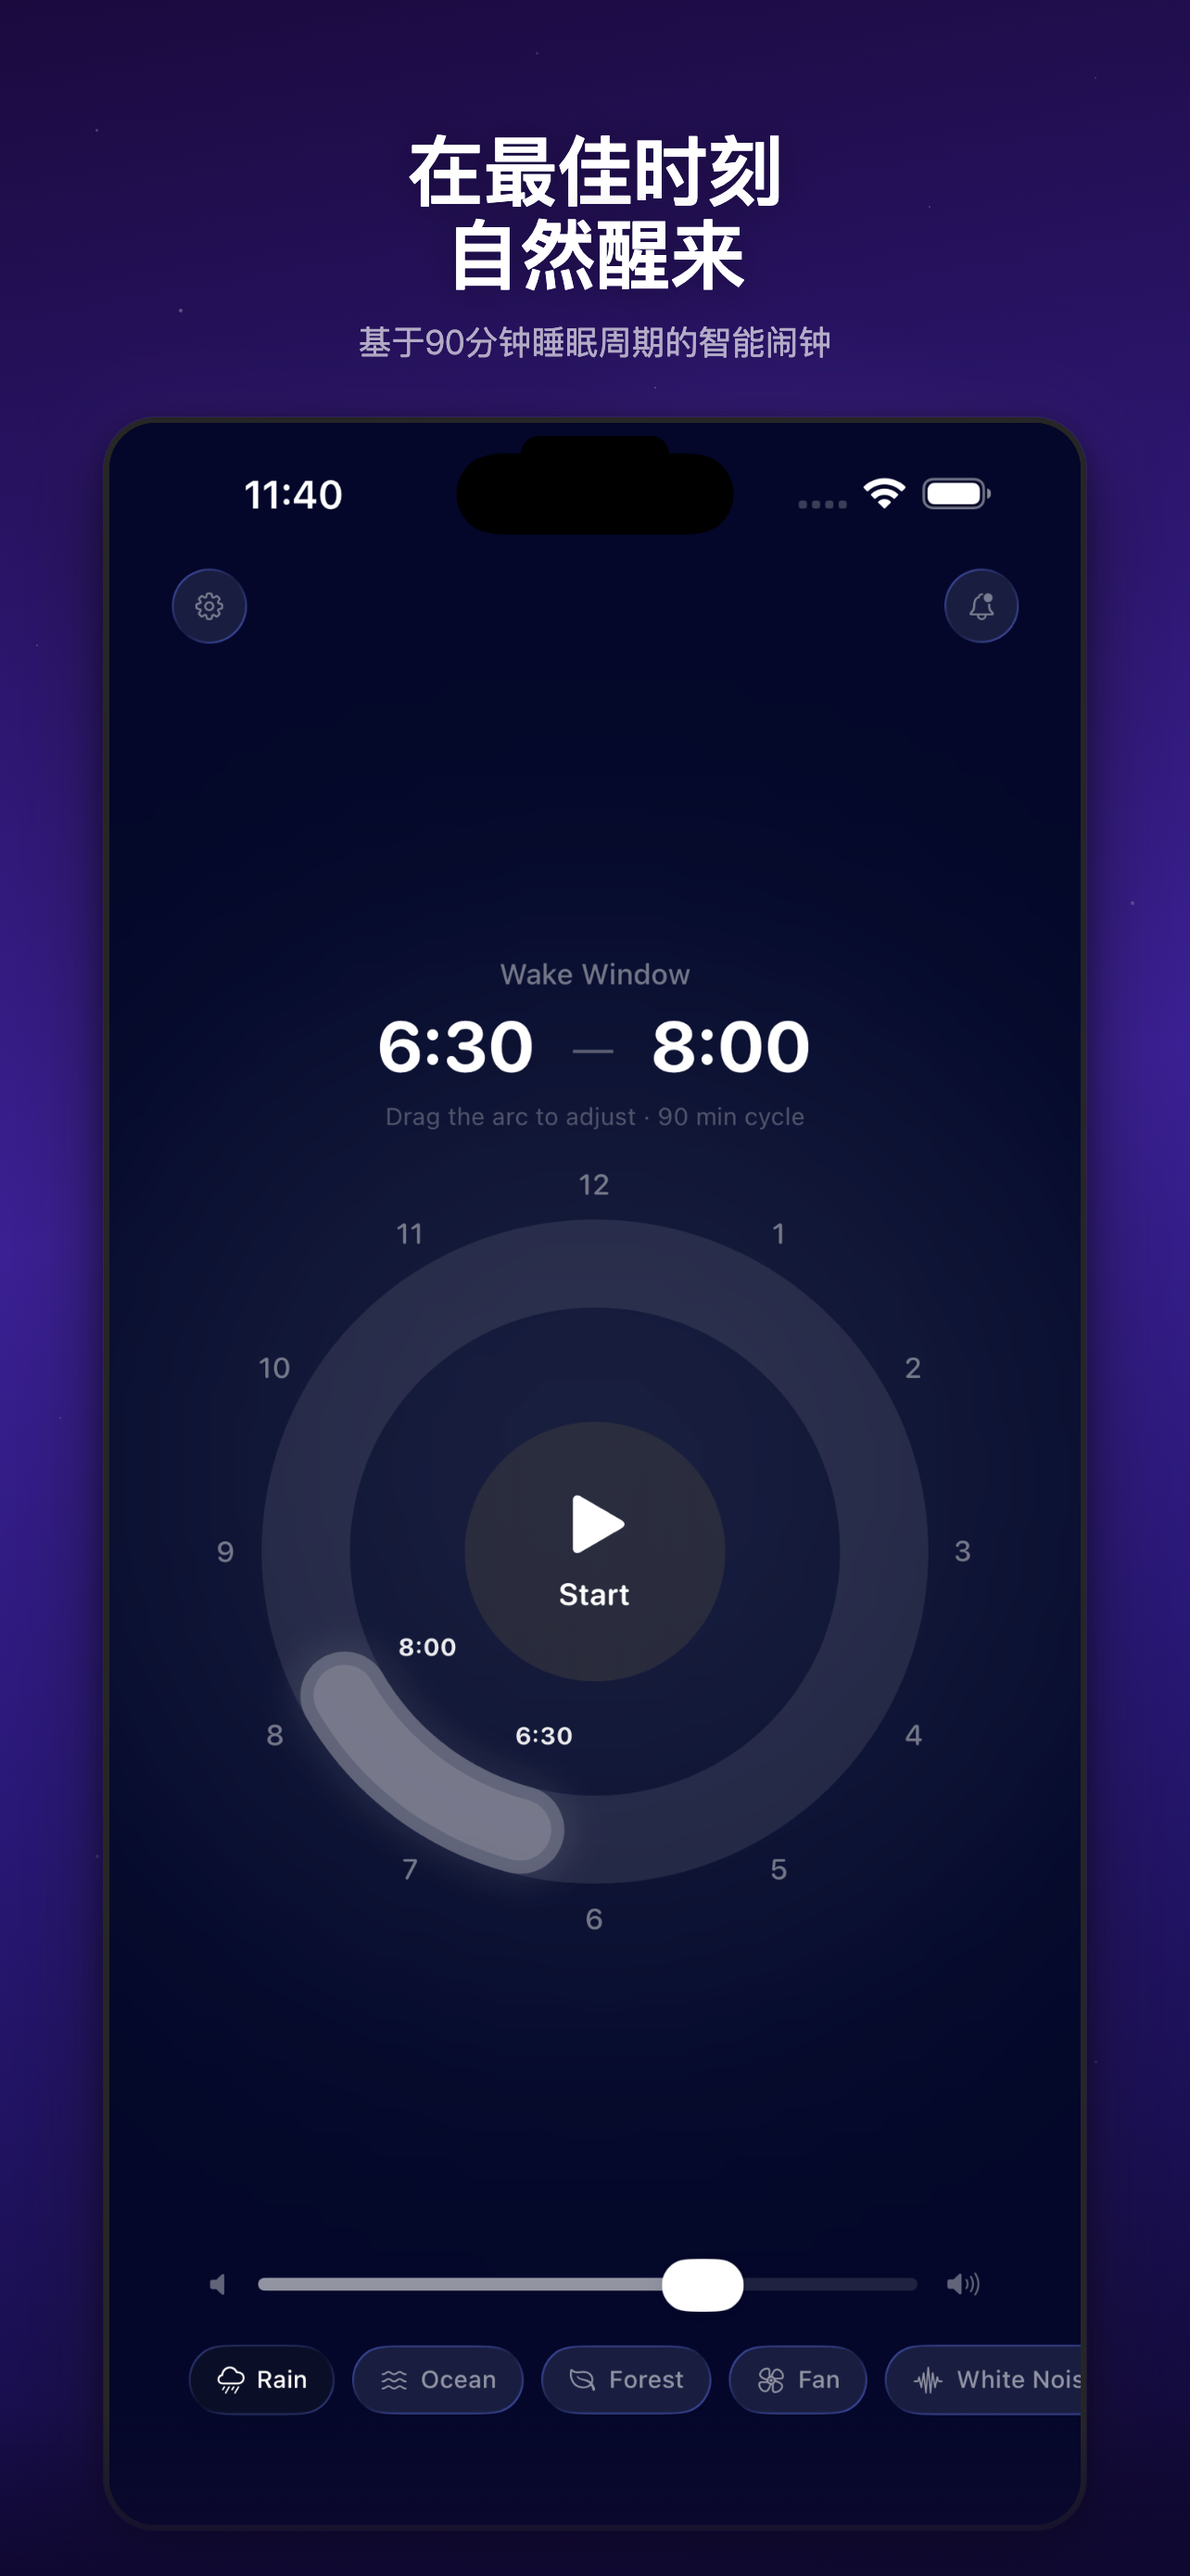
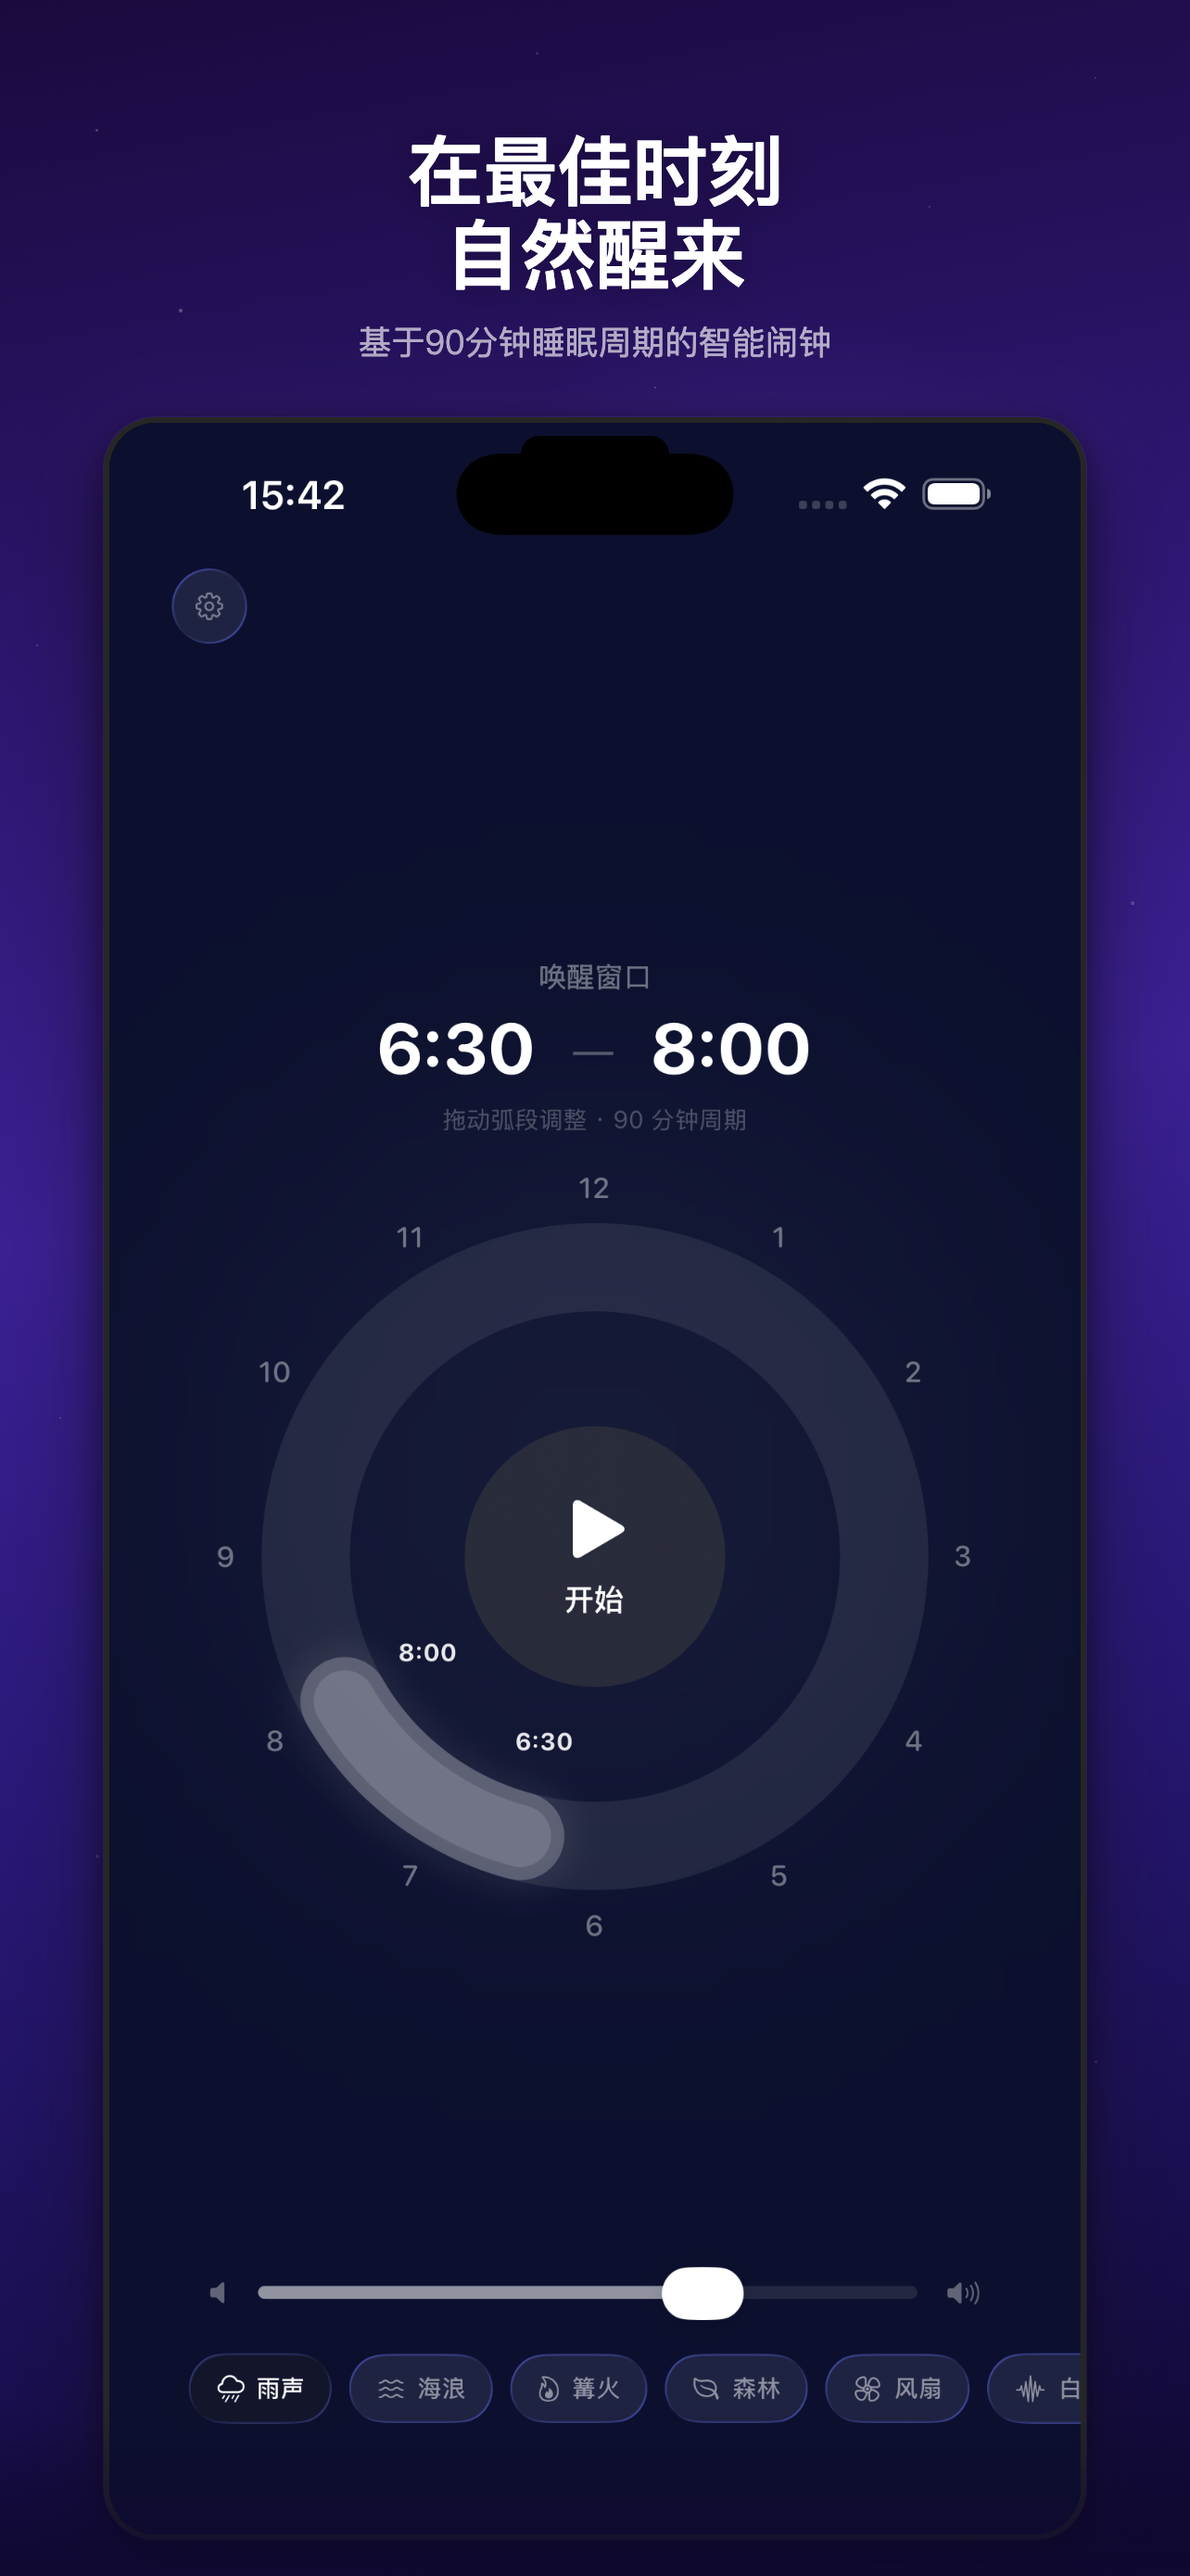
Localize white noise names and improve language detection
- Add localization keys for all white noise types (EN/ZH/JA)
- Use Locale.preferredLanguages for more accurate system language detection
- Update Chinese store screenshots

diff --git a/AirAlarm/LocalizationManager.swift b/AirAlarm/LocalizationManager.swift
@@ -29,20 +29,14 @@ class LocalizationManager {
         let defaults = UserDefaults.standard
         let hasExplicit = defaults.bool(forKey: "hasExplicitLanguageChoice")
 
-        // Migration: existing users who already have a stored language
-        if defaults.object(forKey: "appLanguage") != nil && !hasExplicit {
-            defaults.set(true, forKey: "hasExplicitLanguageChoice")
-            let stored = defaults.string(forKey: "appLanguage") ?? "en"
-            current = Language(rawValue: stored) ?? .english
-            return
-        }
-
         if hasExplicit, let stored = defaults.string(forKey: "appLanguage"),
            let lang = Language(rawValue: stored) {
+            // User explicitly chose a language in Settings — respect it
             current = lang
         } else {
-            // First launch: auto-detect system language
-            let code = Locale.current.language.languageCode?.identifier ?? "en"
+            // Auto-detect system language (first launch or no explicit choice)
+            let preferred = Locale.preferredLanguages.first ?? "en"
+            let code = Locale(identifier: preferred).language.languageCode?.identifier ?? "en"
             let detected = Language(rawValue: code) ?? .english
             current = detected
             defaults.set(detected.rawValue, forKey: "appLanguage")
@@ -106,6 +100,13 @@ class LocalizationManager {
             "notif_wake_body": "You've completed %d sleep cycles (%@). This is your optimal wake time!",
             "notif_bedtime_title": "Time to Wind Down",
             "notif_bedtime_body": "Open AirAlarm to start your sleep session",
+            "sound_rain": "Rain",
+            "sound_ocean": "Ocean",
+            "sound_fire": "Fire",
+            "sound_forest": "Forest",
+            "sound_fan": "Fan",
+            "sound_whitenoise": "White Noise",
+            "sound_airplane": "Airplane",
         ],
         .chinese: [
             "wake_window": "唤醒窗口",
@@ -159,6 +160,13 @@ class LocalizationManager {
             "notif_wake_body": "你已完成 %d 个睡眠周期（%@），现在是最佳起床时间！",
             "notif_bedtime_title": "该休息了",
             "notif_bedtime_body": "打开 AirAlarm 开始你的睡眠",
+            "sound_rain": "雨声",
+            "sound_ocean": "海浪",
+            "sound_fire": "篝火",
+            "sound_forest": "森林",
+            "sound_fan": "风扇",
+            "sound_whitenoise": "白噪音",
+            "sound_airplane": "飞机",
         ],
         .japanese: [
             "wake_window": "起床ウィンドウ",
@@ -212,6 +220,13 @@ class LocalizationManager {
             "notif_wake_body": "%d回の睡眠サイクル（%@）が完了しました。最適な起床タイミングです！",
             "notif_bedtime_title": "そろそろ休みましょう",
             "notif_bedtime_body": "AirAlarmを開いて睡眠セッションを始めましょう",
+            "sound_rain": "雨音",
+            "sound_ocean": "波の音",
+            "sound_fire": "焚き火",
+            "sound_forest": "森林",
+            "sound_fan": "ファン",
+            "sound_whitenoise": "ホワイトノイズ",
+            "sound_airplane": "飛行機",
         ]
     ]
 }

diff --git a/store-screenshots/template.html b/store-screenshots/template.html
@@ -193,11 +193,11 @@
         { headline: "Drift Off with\nSoothing Sounds", subtitle: "Rain · Ocean · Forest · Fan · White Noise", img: "assets/screenshot4.png" },
       ],
       zh: [
-        { headline: "在最佳时刻\n自然醒来", subtitle: "基于90分钟睡眠周期的智能闹钟", img: "assets/screenshot5.png" },
-        { headline: "科学睡眠\n告别昏沉", subtitle: "睡眠周期追踪，精准唤醒", img: "assets/screenshot1.png" },
-        { headline: "AirPods\n智能感知入睡", subtitle: "自动检测入睡，开始计算周期", img: "assets/screenshot2.png" },
-        { headline: "设定唤醒窗口", subtitle: "选择时间范围，在最佳时刻唤醒你", img: "assets/screenshot3.png" },
-        { headline: "沉浸式\n助眠音效", subtitle: "雨声 · 海浪 · 森林 · 风扇 · 白噪音", img: "assets/screenshot4.png" },
+        { headline: "在最佳时刻\n自然醒来", subtitle: "基于90分钟睡眠周期的智能闹钟", img: "assets/screenshot5_zh.png" },
+        { headline: "科学睡眠\n告别昏沉", subtitle: "睡眠周期追踪，精准唤醒", img: "assets/screenshot1_zh.png" },
+        { headline: "AirPods\n智能感知入睡", subtitle: "自动检测入睡，开始计算周期", img: "assets/screenshot2_zh.png" },
+        { headline: "设定唤醒窗口", subtitle: "选择时间范围，在最佳时刻唤醒你", img: "assets/screenshot3_zh.png" },
+        { headline: "沉浸式\n助眠音效", subtitle: "雨声 · 海浪 · 森林 · 风扇 · 白噪音", img: "assets/screenshot4_zh.png" },
       ]
     };
 

diff --git a/AirAlarm/ContentView.swift b/AirAlarm/ContentView.swift
@@ -182,7 +182,7 @@ struct ContentView: View {
     private var playingStatus: some View {
         HStack(spacing: 8) {
             Image(systemName: "waveform").symbolEffect(.pulse)
-            Text("\(loc.t("playing")) \(selectedNoise.rawValue)...")
+            Text("\(loc.t("playing")) \(loc.t(selectedNoise.localizationKey))...")
         }
         .font(.subheadline.weight(.medium))
         .foregroundStyle(.white.opacity(0.6))
@@ -218,7 +218,7 @@ struct ContentView: View {
                     } label: {
                         HStack(spacing: 5) {
                             Image(systemName: noiseIcon(noise)).font(.caption2)
-                            Text(noise.rawValue).font(.caption2.weight(.medium))
+                            Text(loc.t(noise.localizationKey)).font(.caption2.weight(.medium))
                         }
                         .padding(.horizontal, 12)
                         .padding(.vertical, 9)

diff --git a/AirAlarm/AudioManager.swift b/AirAlarm/AudioManager.swift
@@ -13,6 +13,18 @@ enum WhiteNoiseType: String, CaseIterable, Identifiable {
 
     var id: String { rawValue }
 
+    var localizationKey: String {
+        switch self {
+        case .rain: return "sound_rain"
+        case .ocean: return "sound_ocean"
+        case .fire: return "sound_fire"
+        case .forest: return "sound_forest"
+        case .fan: return "sound_fan"
+        case .pureTone: return "sound_whitenoise"
+        case .airplane: return "sound_airplane"
+        }
+    }
+
     var fileName: String {
         switch self {
         case .rain: return "rain"
